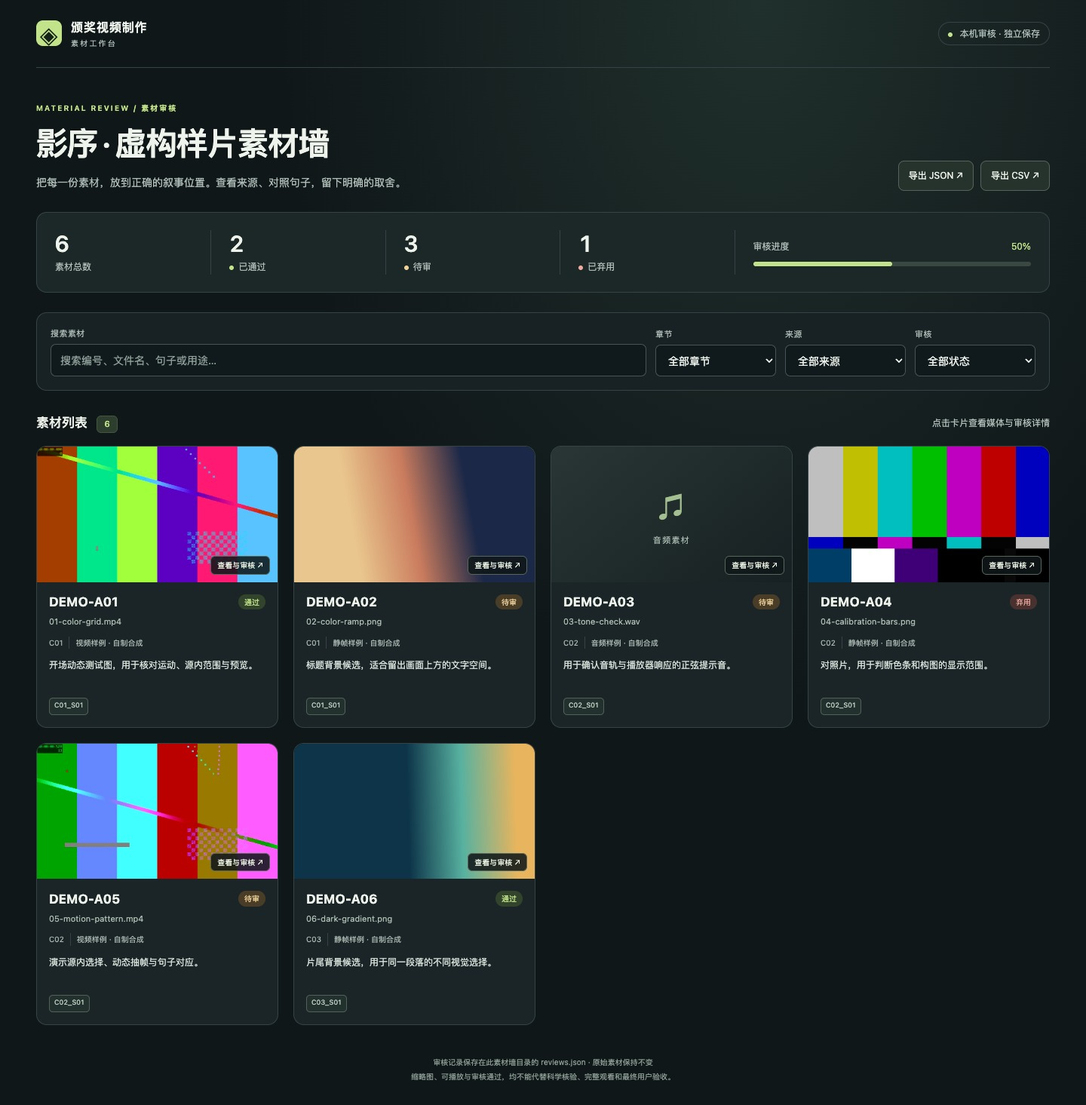
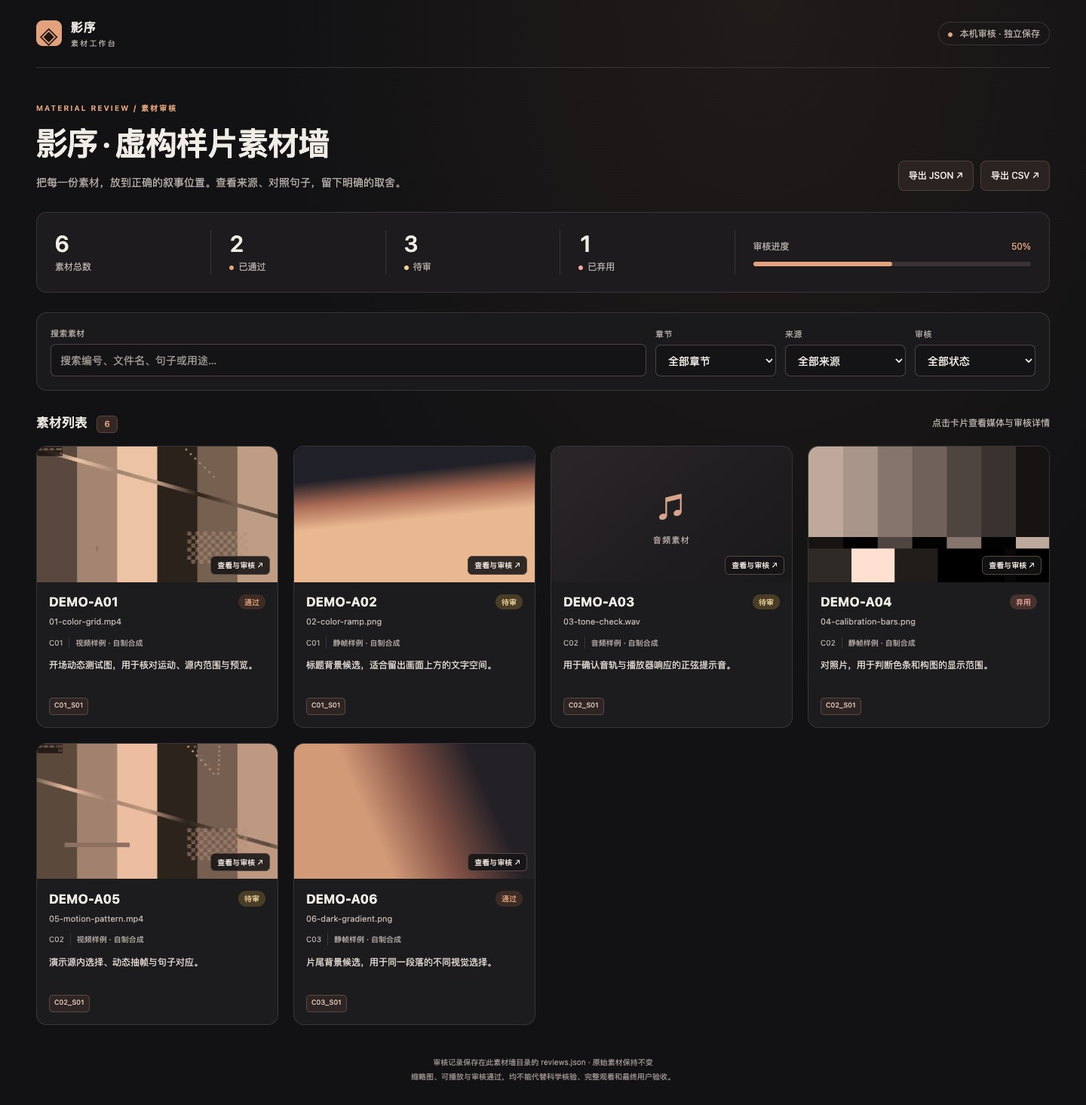
Use Yingxu dark palette for the community material wall

diff --git a/skills/science-achievement-film/assets/wall/style.css b/skills/science-achievement-film/assets/wall/style.css
@@ -1,1 +1,1 @@
-:root{color-scheme:dark;--bg:#101719;--panel:#1b2528;--line:#354246;--text:#eef3ec;--muted:#afbeb8;--green:#c2e38a;--amber:#efd29a;--red:#efa99e;--radius:14px;font-family:Inter,-apple-system,BlinkMacSystemFont,"PingFang SC","Microsoft YaHei",sans-serif;font-synthesis:none}*{box-sizing:border-box}body{margin:0;background:radial-gradient(ellipse at 70% 0,#20302c 0,transparent 45%),var(--bg);color:var(--text);font-size:14px;line-height:1.65}button,input,select,textarea{font:inherit}button,a,input,select,textarea{-webkit-tap-highlight-color:transparent}button{cursor:pointer}a{color:inherit;text-decoration:none}button:focus-visible,a:focus-visible,input:focus-visible,select:focus-visible,textarea:focus-visible{outline:3px solid var(--green);outline-offset:3px}[hidden]{display:none!important}.shell{max-width:1520px;padding:0 48px;margin:auto}.masthead{display:flex;justify-content:space-between;align-items:center;height:90px;border-bottom:1px solid var(--line)}.brand{display:flex;gap:12px;align-items:center;font-size:16px;font-weight:650;letter-spacing:.06em}.brand-mark{display:grid;place-items:center;background:var(--green);color:#142219;width:34px;height:34px;border-radius:9px;font-size:27px}.brand small{display:block;font-size:10px;letter-spacing:.22em;color:var(--muted);font-weight:400}.local-pill{border:1px solid var(--line);padding:5px 12px;border-radius:99px;color:var(--muted);font-size:12px}.local-pill i,.dot{display:inline-block;height:6px;width:6px;background:var(--green);border-radius:50%;margin-right:6px}.hero{display:flex;justify-content:space-between;gap:36px;align-items:flex-end;padding:45px 0 28px}.eyebrow{font-size:10px;letter-spacing:.2em;color:var(--green);margin:0 0 11px;font-weight:600}h1{font-size:clamp(27px,3vw,42px);line-height:1.25;letter-spacing:-.035em;margin:0;font-weight:650}.intro{color:var(--muted);margin:15px 0 0;max-width:660px}.export-actions{display:flex;gap:9px;flex-shrink:0}.export-actions a{border:1px solid #54635b;border-radius:8px;padding:9px 13px;font-size:12px;background:#26332c}.export-actions a:hover{background:#344737}.notice{background:#293329;border:1px solid #516341;border-radius:9px;padding:10px 14px;color:#d7e6c5;margin-bottom:18px;white-space:pre-line}.notice.error{border-color:#a06e55;background:#392b24;color:#ffe0c6}.stats{display:grid;grid-template-columns:repeat(4,1fr) 1.8fr;border:1px solid var(--line);background:#1c2727;border-radius:var(--radius);padding:23px 0;margin:0 0 26px}.stats>div{padding:0 24px;border-right:1px solid var(--line)}.stats>div:last-child{border-right:0}.stats strong{font-size:30px;display:block;font-weight:550;line-height:1.2;font-variant-numeric:tabular-nums}.stats span{color:var(--muted);font-size:12px}.stats .pending{background:var(--amber)}.stats .rejected{background:var(--red)}.progress-summary{display:flex;flex-direction:column;justify-content:center}.progress-summary>div{display:flex;justify-content:space-between;margin-bottom:10px}.progress-summary b{color:var(--green);font-size:12px;font-weight:400}progress{height:6px;width:100%;border:0;appearance:none}progress::-webkit-progress-bar{background:#394841;border-radius:8px}progress::-webkit-progress-value{background:var(--green);border-radius:8px}progress::-moz-progress-bar{background:var(--green)}.filters{display:flex;gap:12px;align-items:flex-end;padding:18px;background:#182123;border:1px solid var(--line);border-radius:var(--radius)}label{display:block}.filters label{width:160px}.filters label.search-label{flex:1;width:auto}label>span{font-size:11px;color:var(--muted);display:block;margin-bottom:5px;letter-spacing:.04em}input,select,textarea{width:100%;background:#10191c;border:1px solid #465358;border-radius:7px;color:var(--text);padding:9px 12px;min-height:42px}input::placeholder,textarea::placeholder{color:#8d9d97}select{padding-right:26px}textarea{resize:vertical;line-height:1.65}.section-heading{display:flex;justify-content:space-between;align-items:center;margin:28px 0 17px}.section-heading h2{font-size:17px;margin:0;font-weight:550}.section-heading h2 span{display:inline-block;color:var(--green);background:#2d3d2e;border:1px solid #425642;min-width:28px;text-align:center;font-size:11px;border-radius:6px;padding:1px 6px;margin-left:8px}.section-heading p{color:var(--muted);font-size:12px;margin:0}.wall{display:grid;grid-template-columns:repeat(auto-fill,minmax(280px,1fr));gap:20px}.card{min-width:0;background:var(--panel);border:1px solid var(--line);border-radius:var(--radius);overflow:hidden;transition:border-color .15s,transform .15s}.card:hover{border-color:#8da773;transform:translateY(-2px)}.open-card{display:block;border:0;background:transparent;padding:0;color:inherit;width:100%;height:100%;text-align:left}.card-media{height:auto;aspect-ratio:16/9;background:linear-gradient(140deg,#293635,#172022);position:relative;overflow:hidden}.card-media img{width:100%;height:100%;object-fit:contain;display:block;background:#0b1011}.placeholder{height:100%;display:flex;flex-direction:column;align-items:center;justify-content:center;color:#a2b4a9;gap:4px}.media-symbol{font-size:39px;font-weight:200;color:#a3be90}.media-type{font-size:11px;letter-spacing:.12em}.card-badges{position:absolute;left:12px;top:12px;display:flex;gap:5px;flex-wrap:wrap}.chip,.card-badges span{font-size:10px;border:1px solid #526156;border-radius:5px;padding:2px 6px;color:#d3e2cb;background:#26352ee8}.card-badges .ai{background:#382c45ec;color:#e8c7f7;border-color:#805d93}.card-badges .unavailable{background:#483321ee;color:#f4d6af;border-color:#936e48}.open-label{position:absolute;right:10px;bottom:10px;font-size:10px;background:#101719df;border:1px solid #56675b;color:#edf5e6;padding:3px 8px;border-radius:6px}.card-body{padding:16px}.card-top{display:flex;justify-content:space-between;align-items:center;gap:10px}.asset-name{font-size:17px;line-height:1.2;margin:0;letter-spacing:.02em}.review-badge{font-size:10px;border-radius:99px;padding:2px 8px;background:#4a3d28;color:var(--amber);white-space:nowrap}.review-badge.approved{background:#32442b;color:var(--green)}.review-badge.rejected{background:#48312f;color:var(--red)}.file-name{margin:7px 0 10px;font-size:11px;white-space:nowrap;overflow:hidden;text-overflow:ellipsis;color:#aabbaf}.card-context{display:flex;gap:8px;font-size:10px;color:#a8b7af}.chapter-name{border-right:1px solid var(--line);padding-right:8px}.purpose{margin:12px 0;color:#d5dfd8;font-size:12px;line-height:1.7;display:-webkit-box;-webkit-line-clamp:2;-webkit-box-orient:vertical;overflow:hidden;min-height:41px}.chips{display:flex;flex-wrap:wrap;gap:5px}.sentence-list{min-height:23px}.sentence-list .chip{max-width:100%;overflow:hidden;text-overflow:ellipsis;white-space:nowrap;font-size:9px;background:#22312e;color:#bdcec1}.card-note{font-size:11px;color:#cbbd9e;margin:12px 0 0;border-top:1px solid var(--line);padding-top:10px;white-space:nowrap;overflow:hidden;text-overflow:ellipsis}.card-note:empty{display:none}.empty{text-align:center;padding:70px 12px;border:1px dashed #4b5c51;border-radius:var(--radius);color:var(--muted)}.empty>span{font-size:40px;color:var(--green)}.empty h2{color:var(--text);font-size:19px;font-weight:500;margin:6px 0}.empty p{font-size:13px}.button{border:1px solid var(--green);background:var(--green);color:#172519;border-radius:7px;padding:9px 16px;font-size:12px;font-weight:650;white-space:nowrap}.button:hover{filter:brightness(1.06)}.button:disabled{opacity:.6;cursor:wait}.button.secondary{background:transparent;color:var(--green)}footer{color:#8c9e94;font-size:10px;line-height:1.9;text-align:center;padding:40px 0 28px}dialog{width:min(1180px,calc(100% - 40px));max-height:90vh;border:1px solid #5b6d5e;border-radius:18px;background:#172123;color:var(--text);padding:0;box-shadow:0 30px 100px #0009}dialog::backdrop{background:#030a0ccf;backdrop-filter:blur(4px)}.dialog-head{display:flex;justify-content:space-between;align-items:center;padding:23px 26px;border-bottom:1px solid var(--line);position:sticky;top:0;background:#192527;z-index:2}.dialog-head .eyebrow{margin-bottom:4px}.dialog-head h2{font-size:22px;margin:0;line-height:1.2}.icon-button{width:32px;height:32px;border:1px solid #57645c;background:#23322a;color:var(--text);border-radius:99px;font-size:23px;line-height:1}.detail-grid{display:grid;grid-template-columns:1.45fr 1fr;gap:24px;padding:24px 26px}.media-side,.review-side{min-width:0}.player{background:#070c0d;min-height:160px;aspect-ratio:16/9;display:flex;align-items:center;justify-content:center;border:1px solid var(--line);border-radius:9px;overflow:hidden}.player video,.player img{display:block;width:100%;height:100%;max-height:440px;object-fit:contain}.player audio{width:90%}.player .no-preview{padding:24px;text-align:center;color:#b9c6bb;font-size:13px}.media-info{color:#b4c3b8;font-size:11px;padding:10px 2px;overflow-wrap:anywhere}.media-info a{display:inline-block;border:1px solid #627458;color:var(--green);padding:4px 9px;border-radius:6px;margin:8px 8px 0 0}.issues{font-size:11px;color:#e5bf8a;overflow-wrap:anywhere}.issues p{margin:7px 0}.detail-block{border-top:1px solid var(--line);padding:16px 0 8px}.detail-block h3,.review-box h3{font-size:12px;font-weight:550;margin:0 0 10px;color:var(--green)}.detail-block p{margin:0 0 18px;color:#d6dfd8;font-size:13px;white-space:pre-wrap;overflow-wrap:anywhere}dl{margin:0;display:grid;grid-template-columns:78px 1fr;gap:9px 15px;font-size:12px}dt{color:var(--muted)}dd{margin:0;color:#e1e7df;overflow-wrap:anywhere;white-space:pre-wrap}.review-box{border:1px solid #47594a;border-radius:10px;padding:17px;margin-top:20px;background:#1e2c28}.review-box label{font-size:11px;color:var(--muted);margin:13px 0 5px}.save-row{display:flex;align-items:center;justify-content:space-between;gap:10px;margin-top:13px}#save-status{color:#c6dbb5;font-size:11px}#save-status.error{color:var(--red)}.small-note{font-size:10px;color:#9ead9e;line-height:1.7;margin:13px 0 0}@media(max-width:900px){.shell{padding:0 24px}.hero{align-items:flex-start;flex-direction:column;gap:20px;padding-top:30px}.stats{grid-template-columns:repeat(4,1fr)}.stats .progress-summary{grid-column:1/-1;margin-top:22px;padding-top:18px;border-top:1px solid var(--line)}.stats>div:nth-child(4){border-right:0}.filters{flex-wrap:wrap}.filters label.search-label{flex-basis:100%}.filters label{flex:1;width:auto}.detail-grid{grid-template-columns:1fr}.section-heading p{display:none}}@media(max-width:500px){.shell{padding:0 16px}.masthead{height:74px}.local-pill{font-size:9px;padding:4px 7px}.brand{font-size:13px}.hero{padding:25px 0 22px}.intro{font-size:12px}.stats>div{padding:0 15px}.stats strong{font-size:26px}.stats span{font-size:10px}.filters{padding:12px;gap:9px}.filters label{min-width:80px}select{font-size:12px;padding:8px}.wall{grid-template-columns:1fr}.card-media{aspect-ratio:1.85}.dialog-head{padding:18px}.detail-grid{padding:18px;gap:12px}dialog{width:calc(100% - 16px);max-height:95vh}}@media(prefers-reduced-motion:reduce){.card{transition:none}.card:hover{transform:none}}
+:root{color-scheme:dark;--bg:#121214;--panel:#1c1b1e;--line:#383438;--text:#f1ece6;--muted:#b7aeaa;--accent:#e3a27d;--amber:#efd29a;--red:#efa99e;--radius:14px;font-family:Inter,-apple-system,BlinkMacSystemFont,"PingFang SC","Microsoft YaHei",sans-serif;font-synthesis:none}*{box-sizing:border-box}body{margin:0;background:radial-gradient(ellipse at 70% 0,#211b1a 0,transparent 45%),var(--bg);color:var(--text);font-size:14px;line-height:1.65}button,input,select,textarea{font:inherit}button,a,input,select,textarea{-webkit-tap-highlight-color:transparent}button{cursor:pointer}a{color:inherit;text-decoration:none}button:focus-visible,a:focus-visible,input:focus-visible,select:focus-visible,textarea:focus-visible{outline:3px solid var(--accent);outline-offset:3px}[hidden]{display:none!important}.shell{max-width:1520px;padding:0 48px;margin:auto}.masthead{display:flex;justify-content:space-between;align-items:center;height:90px;border-bottom:1px solid var(--line)}.brand{display:flex;gap:12px;align-items:center;font-size:16px;font-weight:650;letter-spacing:.06em}.brand-mark{display:grid;place-items:center;background:var(--accent);color:#211512;width:34px;height:34px;border-radius:9px;font-size:27px}.brand small{display:block;font-size:10px;letter-spacing:.22em;color:var(--muted);font-weight:400}.local-pill{border:1px solid var(--line);padding:5px 12px;border-radius:99px;color:var(--muted);font-size:12px}.local-pill i,.dot{display:inline-block;height:6px;width:6px;background:var(--accent);border-radius:50%;margin-right:6px}.hero{display:flex;justify-content:space-between;gap:36px;align-items:flex-end;padding:45px 0 28px}.eyebrow{font-size:10px;letter-spacing:.2em;color:var(--accent);margin:0 0 11px;font-weight:600}h1{font-size:clamp(27px,3vw,42px);line-height:1.25;letter-spacing:-.035em;margin:0;font-weight:650}.intro{color:var(--muted);margin:15px 0 0;max-width:660px}.export-actions{display:flex;gap:9px;flex-shrink:0}.export-actions a{border:1px solid #50403b;border-radius:8px;padding:9px 13px;font-size:12px;background:#2b2322}.export-actions a:hover{background:#3d302c}.notice{background:#322724;border:1px solid #62473a;border-radius:9px;padding:10px 14px;color:#eac9b6;margin-bottom:18px;white-space:pre-line}.notice.error{border-color:#a06e55;background:#392b24;color:#ffe0c6}.stats{display:grid;grid-template-columns:repeat(4,1fr) 1.8fr;border:1px solid var(--line);background:#1d1b1e;border-radius:var(--radius);padding:23px 0;margin:0 0 26px}.stats>div{padding:0 24px;border-right:1px solid var(--line)}.stats>div:last-child{border-right:0}.stats strong{font-size:30px;display:block;font-weight:550;line-height:1.2;font-variant-numeric:tabular-nums}.stats span{color:var(--muted);font-size:12px}.stats .pending{background:var(--amber)}.stats .rejected{background:var(--red)}.progress-summary{display:flex;flex-direction:column;justify-content:center}.progress-summary>div{display:flex;justify-content:space-between;margin-bottom:10px}.progress-summary b{color:var(--accent);font-size:12px;font-weight:400}progress{height:6px;width:100%;border:0;appearance:none}progress::-webkit-progress-bar{background:#3a3234;border-radius:8px}progress::-webkit-progress-value{background:var(--accent);border-radius:8px}progress::-moz-progress-bar{background:var(--accent)}.filters{display:flex;gap:12px;align-items:flex-end;padding:18px;background:#1a191c;border:1px solid var(--line);border-radius:var(--radius)}label{display:block}.filters label{width:160px}.filters label.search-label{flex:1;width:auto}label>span{font-size:11px;color:var(--muted);display:block;margin-bottom:5px;letter-spacing:.04em}input,select,textarea{width:100%;background:#141316;border:1px solid #4b4245;border-radius:7px;color:var(--text);padding:9px 12px;min-height:42px}input::placeholder,textarea::placeholder{color:#a39a97}select{padding-right:26px}textarea{resize:vertical;line-height:1.65}.section-heading{display:flex;justify-content:space-between;align-items:center;margin:28px 0 17px}.section-heading h2{font-size:17px;margin:0;font-weight:550}.section-heading h2 span{display:inline-block;color:var(--accent);background:#352724;border:1px solid #5c4339;min-width:28px;text-align:center;font-size:11px;border-radius:6px;padding:1px 6px;margin-left:8px}.section-heading p{color:var(--muted);font-size:12px;margin:0}.wall{display:grid;grid-template-columns:repeat(auto-fill,minmax(280px,1fr));gap:20px}.card{min-width:0;background:var(--panel);border:1px solid var(--line);border-radius:var(--radius);overflow:hidden;transition:border-color .15s,transform .15s}.card:hover{border-color:#be8b70;transform:translateY(-2px)}.open-card{display:block;border:0;background:transparent;padding:0;color:inherit;width:100%;height:100%;text-align:left}.card-media{height:auto;aspect-ratio:16/9;background:linear-gradient(140deg,#2a2528,#19181b);position:relative;overflow:hidden}.card-media img{width:100%;height:100%;object-fit:contain;display:block;background:#0c0b0d}.placeholder{height:100%;display:flex;flex-direction:column;align-items:center;justify-content:center;color:#b9ada8;gap:4px}.media-symbol{font-size:39px;font-weight:200;color:#d7a38b}.media-type{font-size:11px;letter-spacing:.12em}.card-badges{position:absolute;left:12px;top:12px;display:flex;gap:5px;flex-wrap:wrap}.chip,.card-badges span{font-size:10px;border:1px solid #5b4844;border-radius:5px;padding:2px 6px;color:#e7cbbd;background:#302522e8}.card-badges .ai{background:#382c45ec;color:#e8c7f7;border-color:#805d93}.card-badges .unavailable{background:#483321ee;color:#f4d6af;border-color:#936e48}.open-label{position:absolute;right:10px;bottom:10px;font-size:10px;background:#151315df;border:1px solid #574744;color:#f0e5df;padding:3px 8px;border-radius:6px}.card-body{padding:16px}.card-top{display:flex;justify-content:space-between;align-items:center;gap:10px}.asset-name{font-size:17px;line-height:1.2;margin:0;letter-spacing:.02em}.review-badge{font-size:10px;border-radius:99px;padding:2px 8px;background:#4a3d28;color:var(--amber);white-space:nowrap}.review-badge.approved{background:#3d2b25;color:var(--accent)}.review-badge.rejected{background:#48312f;color:var(--red)}.file-name{margin:7px 0 10px;font-size:11px;white-space:nowrap;overflow:hidden;text-overflow:ellipsis;color:#beb3ae}.card-context{display:flex;gap:8px;font-size:10px;color:#b6aba7}.chapter-name{border-right:1px solid var(--line);padding-right:8px}.purpose{margin:12px 0;color:#dfd5d0;font-size:12px;line-height:1.7;display:-webkit-box;-webkit-line-clamp:2;-webkit-box-orient:vertical;overflow:hidden;min-height:41px}.chips{display:flex;flex-wrap:wrap;gap:5px}.sentence-list{min-height:23px}.sentence-list .chip{max-width:100%;overflow:hidden;text-overflow:ellipsis;white-space:nowrap;font-size:9px;background:#2d2423;color:#dfc3b6}.card-note{font-size:11px;color:#cbbd9e;margin:12px 0 0;border-top:1px solid var(--line);padding-top:10px;white-space:nowrap;overflow:hidden;text-overflow:ellipsis}.card-note:empty{display:none}.empty{text-align:center;padding:70px 12px;border:1px dashed #514448;border-radius:var(--radius);color:var(--muted)}.empty>span{font-size:40px;color:var(--accent)}.empty h2{color:var(--text);font-size:19px;font-weight:500;margin:6px 0}.empty p{font-size:13px}.button{border:1px solid var(--accent);background:var(--accent);color:#251612;border-radius:7px;padding:9px 16px;font-size:12px;font-weight:650;white-space:nowrap}.button:hover{filter:brightness(1.06)}.button:disabled{opacity:.6;cursor:wait}.button.secondary{background:transparent;color:var(--accent)}footer{color:#9f9392;font-size:10px;line-height:1.9;text-align:center;padding:40px 0 28px}dialog{width:min(1180px,calc(100% - 40px));max-height:90vh;border:1px solid #5a4a49;border-radius:18px;background:#1a181b;color:var(--text);padding:0;box-shadow:0 30px 100px #0009}dialog::backdrop{background:#080609cf;backdrop-filter:blur(4px)}.dialog-head{display:flex;justify-content:space-between;align-items:center;padding:23px 26px;border-bottom:1px solid var(--line);position:sticky;top:0;background:#211e22;z-index:2}.dialog-head .eyebrow{margin-bottom:4px}.dialog-head h2{font-size:22px;margin:0;line-height:1.2}.icon-button{width:32px;height:32px;border:1px solid #574746;background:#302527;color:var(--text);border-radius:99px;font-size:23px;line-height:1}.detail-grid{display:grid;grid-template-columns:1.45fr 1fr;gap:24px;padding:24px 26px}.media-side,.review-side{min-width:0}.player{background:#0b090b;min-height:160px;aspect-ratio:16/9;display:flex;align-items:center;justify-content:center;border:1px solid var(--line);border-radius:9px;overflow:hidden}.player video,.player img{display:block;width:100%;height:100%;max-height:440px;object-fit:contain}.player audio{width:90%}.player .no-preview{padding:24px;text-align:center;color:#c4b7b3;font-size:13px}.media-info{color:#c5b7b2;font-size:11px;padding:10px 2px;overflow-wrap:anywhere}.media-info a{display:inline-block;border:1px solid #735446;color:var(--accent);padding:4px 9px;border-radius:6px;margin:8px 8px 0 0}.issues{font-size:11px;color:#e5bf8a;overflow-wrap:anywhere}.issues p{margin:7px 0}.detail-block{border-top:1px solid var(--line);padding:16px 0 8px}.detail-block h3,.review-box h3{font-size:12px;font-weight:550;margin:0 0 10px;color:var(--accent)}.detail-block p{margin:0 0 18px;color:#ded4ce;font-size:13px;white-space:pre-wrap;overflow-wrap:anywhere}dl{margin:0;display:grid;grid-template-columns:78px 1fr;gap:9px 15px;font-size:12px}dt{color:var(--muted)}dd{margin:0;color:#eae0d9;overflow-wrap:anywhere;white-space:pre-wrap}.review-box{border:1px solid #58423a;border-radius:10px;padding:17px;margin-top:20px;background:#28201f}.review-box label{font-size:11px;color:var(--muted);margin:13px 0 5px}.save-row{display:flex;align-items:center;justify-content:space-between;gap:10px;margin-top:13px}#save-status{color:#efc4ac;font-size:11px}#save-status.error{color:var(--red)}.small-note{font-size:10px;color:#b1a19a;line-height:1.7;margin:13px 0 0}@media(max-width:900px){.shell{padding:0 24px}.hero{align-items:flex-start;flex-direction:column;gap:20px;padding-top:30px}.stats{grid-template-columns:repeat(4,1fr)}.stats .progress-summary{grid-column:1/-1;margin-top:22px;padding-top:18px;border-top:1px solid var(--line)}.stats>div:nth-child(4){border-right:0}.filters{flex-wrap:wrap}.filters label.search-label{flex-basis:100%}.filters label{flex:1;width:auto}.detail-grid{grid-template-columns:1fr}.section-heading p{display:none}}@media(max-width:500px){.shell{padding:0 16px}.masthead{height:74px}.local-pill{font-size:9px;padding:4px 7px}.brand{font-size:13px}.hero{padding:25px 0 22px}.intro{font-size:12px}.stats>div{padding:0 15px}.stats strong{font-size:26px}.stats span{font-size:10px}.filters{padding:12px;gap:9px}.filters label{min-width:80px}select{font-size:12px;padding:8px}.wall{grid-template-columns:1fr}.card-media{aspect-ratio:1.85}.dialog-head{padding:18px}.detail-grid{padding:18px;gap:12px}dialog{width:calc(100% - 16px);max-height:95vh}}@media(prefers-reduced-motion:reduce){.card{transition:none}.card:hover{transform:none}}

diff --git a/skills/science-achievement-film/assets/wall/index.html b/skills/science-achievement-film/assets/wall/index.html
@@ -4,15 +4,15 @@
   <meta charset="utf-8">
   <meta name="viewport" content="width=device-width, initial-scale=1">
   <meta name="color-scheme" content="dark">
-  <title>颁奖视频 · 素材墙</title>
+  <title>影序 · 素材墙</title>
   <link rel="stylesheet" href="style.css">
   <script src="app.js" defer></script>
 </head>
 <body>
   <div class="shell">
-    <header class="masthead"><div class="brand"><span class="brand-mark">◈</span><span>颁奖视频制作 <small>素材工作台</small></span></div><span class="local-pill"><i></i> 本机审核 · 独立保存</span></header>
+    <header class="masthead"><div class="brand"><span class="brand-mark">◈</span><span>影序 <small>素材工作台</small></span></div><span class="local-pill"><i></i> 本机审核 · 独立保存</span></header>
     <main>
-      <section class="hero"><div><p class="eyebrow">MATERIAL REVIEW / 素材审核</p><h1 id="wall-title">颁奖视频素材墙</h1><p class="intro">把每一份素材，放到正确的叙事位置。查看来源、对照句子，留下明确的取舍。</p></div><div class="export-actions"><a href="/api/export?format=json" download>导出 JSON ↗</a><a href="/api/export?format=csv" download>导出 CSV ↗</a></div></section>
+      <section class="hero"><div><p class="eyebrow">MATERIAL REVIEW / 素材审核</p><h1 id="wall-title">影序素材墙</h1><p class="intro">把每一份素材，放到正确的叙事位置。查看来源、对照句子，留下明确的取舍。</p></div><div class="export-actions"><a href="/api/export?format=json" download>导出 JSON ↗</a><a href="/api/export?format=csv" download>导出 CSV ↗</a></div></section>
       <div id="startup" class="notice" role="status">正在连接本机服务…</div>
       <section class="stats" aria-label="审核概览"><div><strong id="total-count">0</strong><span>素材总数</span></div><div><strong id="approved-count">0</strong><span><i class="dot approved"></i>已通过</span></div><div><strong id="pending-count">0</strong><span><i class="dot pending"></i>待审</span></div><div><strong id="rejected-count">0</strong><span><i class="dot rejected"></i>已弃用</span></div><div class="progress-summary"><div><span>审核进度</span><b id="progress-label">0%</b></div><progress id="progress" max="100" value="0">0%</progress></div></section>
       <section class="filters" aria-label="筛选素材"><label class="search-label"><span>搜索素材</span><input id="search" type="search" placeholder="搜索编号、文件名、句子或用途…"></label><label><span>章节</span><select id="chapter"><option value="">全部章节</option></select></label><label><span>来源</span><select id="origin"><option value="">全部来源</option></select></label><label><span>审核</span><select id="review"><option value="">全部状态</option><option value="pending">待审</option><option value="approved">通过</option><option value="rejected">弃用</option></select></label></section>

diff --git a/skills/science-achievement-film/scripts/material_wall.py b/skills/science-achievement-film/scripts/material_wall.py
@@ -248,7 +248,7 @@ def build(args):
                 row["proxy_audio"] = proxy_audio
             records.append(row)
             assets.append(public)
-        manifest = {"version": VERSION, "title": str(data.get("title") or "颁奖视频素材墙"), "created_at": stamp(), "portable": bool(args.copy_media), "warnings": warnings, "assets": assets}
+        manifest = {"version": VERSION, "title": str(data.get("title") or "影序素材墙"), "created_at": stamp(), "portable": bool(args.copy_media), "warnings": warnings, "assets": assets}
         write_json(temporary / "manifest.json", manifest)
         write_json(temporary / "records.json", {"title": manifest["title"], "csv_fields": list(dict.fromkeys([*csv_fields, *CSV_FIELDS, "thumbnail_path", "preview_status", "preview_preserves_timeline", "proxy_audio"])), "assets": records})
         write_json(temporary / "media-map.json", media_map)
@@ -550,7 +550,7 @@ def serve(args):
 
 
 def main(argv=None):
-    parser = argparse.ArgumentParser(description="颁奖视频素材墙：本地构建、播放、筛选、审核与导出。Python 标准库，无网络依赖。")
+    parser = argparse.ArgumentParser(description="影序素材墙：本地构建、播放、筛选、审核与导出。Python 标准库，无网络依赖。")
     parser.add_argument("--version", action="version", version=VERSION)
     commands = parser.add_subparsers(dest="command", required=True)
     builder = commands.add_parser("build", help="从 JSON / CSV 生成新素材墙目录，不覆盖输入和已有墙")

diff --git a/docs/screenshots/README.md b/docs/screenshots/README.md
@@ -1,6 +1,6 @@
 # 功能截图
 
-这些图片来自开源版 `v1.1.0` 运行的虚构工程。素材墙直接截取浏览器，其他配图展示实际命令结果、导出文档内容或成片画面。红框标出智能体的命令、参数和返回字段。
+这些图片来自开源版运行的虚构工程。素材墙图片直接截取当前主分支的暗黑界面，其他配图展示实际命令结果、导出文档内容或成片画面。红框标出智能体的命令、参数和返回字段。
 
 | 截图 | 展示内容 |
 |---|---|

diff --git a/README.md b/README.md
@@ -10,7 +10,7 @@
 
 ## 功能实拍
 
-以下是开源版 `v1.1.0` 用虚构工程运行得到的浏览器界面、命令输出和成片画面。[完整截图索引](docs/screenshots/README.md)
+以下是开源版用虚构工程运行得到的浏览器界面、命令输出和成片画面。素材墙实拍来自当前主分支的暗黑配色。[完整截图索引](docs/screenshots/README.md)
 
 ### 素材墙与审核
 
